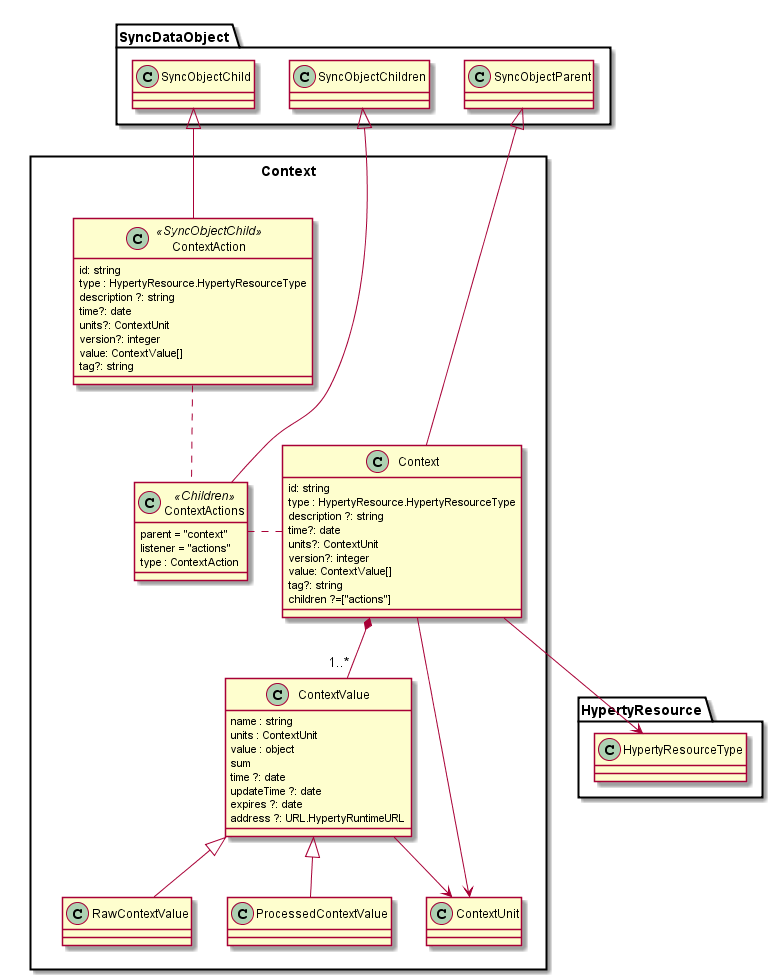
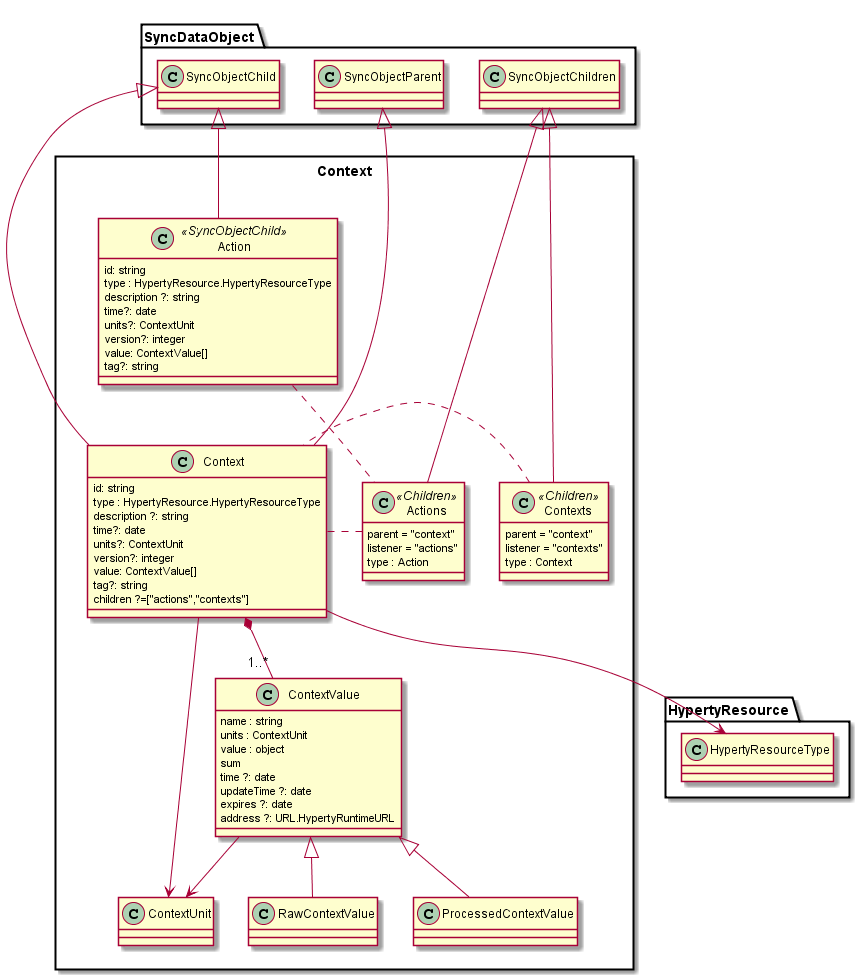
context data model update

diff --git a/docs/specs/messages/identity-management-messages.md b/docs/specs/messages/identity-management-messages.md
@@ -98,24 +98,13 @@ Message sent by the Identity Module function to Application Sandbox to hide admi
 "to" : "hyperty-runtime://<runtime-domain>/<runtime-instance-identifier>/gui-manager",
 "body" : { "method" : "hideAdminPage" }
 ```
-#### Authentication url to Application / Response url
 
-Message sent by the Identity Module to Application Sandbox, so the Application can load the authentication url received
-
-```
-"id" : "4"
-"type" : "execute",
-"from" : "hyperty-runtime://<runtime-domain>/<runtime-instance-identifier>/idm",
-"to" : "hyperty-runtime://<runtime-domain>/<runtime-instance-identifier>/gui-manager",
-"body" : { "method" : "openURL", "value" : "<authenticationURL>" }
-```
-
-Authentication response.
+#### Get Identity Associated to Hyperty Instance
 
 ```
 "id" : "4"
-"type" : "response",
-"from" : "hyperty-runtime://<runtime-domain>/<runtime-instance-identifier>/gui-manager",
+"type" : "read",
+"from" : "hyperty://<hyperty-connector>/<hyperty-instance-identifier>",
 "to" : "hyperty-runtime://<runtime-domain>/<runtime-instance-identifier>/idm",
-"body" : { "type" : "200", "value" : "<authentication response>" }
+"body" : { "resource" : "." , "criteria" : "hyperty = hyperty://<hyperty-connector>/<hyperty-instance-identifier>" }
 ```

diff --git a/docs/datamodel/data-objects/context/readme.md b/docs/datamodel/data-objects/context/readme.md
@@ -4,5 +4,17 @@
 
 ![Context Data Object Model](Context.png)
 
+The Context model is comprised by two main types of Objects:
+
+**Context: ** contains data that characterises the environment around a certain reTHINK User (ie a human being or physical things) usualy derived from data collected from sensors.
+
+**Action: ** contains data used to perform actions on reTHINK physical things users
+
+### Context
+
+A Context is defined by:
+
+- **type**: its the ResourceType
+
 ### Open Issues
 1. JSON encoding directly derived from class design is unlikely to be SENML-compliant (see also https://github.com/reTHINK-project/architecture/issues/60)
